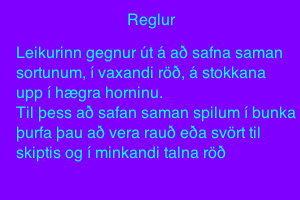
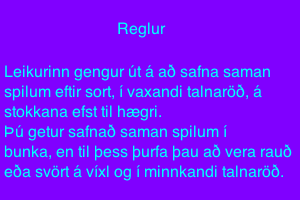
nyjar reglur

Changed region(s): [[0.0, 0.21, 0.99, 0.9], [0.39, 0.06, 0.6, 0.21]]

diff --git a/kapall.py b/kapall.py
@@ -17,7 +17,6 @@ class Spil:
         self.framhlid = self.fa_mitt_spil(self.sort, self.gildi)
 
 
-    #
     def hvar_attu_heima(self):
         return self.heimili
 
@@ -54,6 +53,9 @@ class Spil:
 
     def hvernig_snyrdu(self):
         return self.snyr_upp
+
+    def breyta_bakgrunn(self, tala):
+        self.bakhlid = self.fa_mitt_spil('Auka', tala)
 
 
 class Geymsla:
